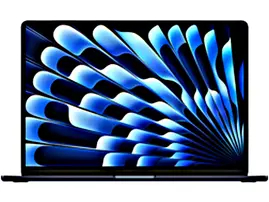
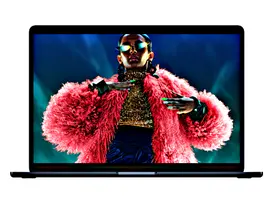
add 10 pics to latops section and customize latops cards also design 4 cards of smart watchse section

diff --git a/index.html b/index.html
@@ -290,32 +290,12 @@
     <!--!-------laptops ----------->
     <div class="laptops" id="laptops">
 
-        <h2>Laptop</h2>
+        <span>LAPTOPS</span>
 
         <div class="row2">
 
             <div class="card1 cardl">
-                <img src="./images/OIP (1).jpeg" alt="">
-                <h3>Infinix INBook Y1 Plus</h3>
-                
-            </div>
-            <div class="card2 cardl">
-                <img src="./images/OIP (2).jpeg" alt="">
-                <h3>HP 15-FD0021NX</h3>
-                
-            </div>
-            <div class="card3 cardl">
-                <img src="./images/download (2).jpeg" alt="">
-                <h3>Dell Vostro 3520</h3>
-                
-            </div>
-            <div class="card4 cardl">
-                <img src="./images/download (1).jpeg" alt="">
-                <h3>Dell latitude 2340</h3>
-            </div>
-
-            <div class="card6 cardl">
-                <img src="./images/realme 12.webp" alt="">
+                <img src="./images/laptop 1.webp" alt="">
                 <h2> Iphone XS Max 512GB</h2>
 
                 <details>
@@ -331,6 +311,166 @@
 
                 <h3>Rs. 157,999</h3>
             </div>
+
+            <div class="card2 cardl">
+                <img src="./images/laptop 22.webp" alt="">
+                <h2> Iphone XS Max 512GB</h2>
+
+                <details>
+                    <br>
+                    * RAM: 1 <br>
+                    * RAM: 4GB <br>
+                    * Storage: 256GB <br>
+                    * Camera: 12MP + 12MP <br>
+                    * Battery: Li-Ion 3174 mAh <br>
+                    * Screen: 6.5 inches <br>
+                    <br>
+                </details>
+
+                <h3>Rs. 157,999</h3>
+            </div>
+            <div class="card3 cardl">
+                <img src="./images/laptop 3.webp" alt="">
+                <h2> Iphone XS Max 512GB</h2>
+
+                <details>
+                    <br>
+                    * RAM: 1 <br>
+                    * RAM: 4GB <br>
+                    * Storage: 256GB <br>
+                    * Camera: 12MP + 12MP <br>
+                    * Battery: Li-Ion 3174 mAh <br>
+                    * Screen: 6.5 inches <br>
+                    <br>
+                </details>
+
+                <h3>Rs. 157,999</h3>
+            </div>
+            <div class="card4 cardl">
+                <img src="./images/laptop 4.webp" alt="">
+                <h2> Iphone XS Max 512GB</h2>
+
+                <details>
+                    <br>
+                    * RAM: 1 <br>
+                    * RAM: 4GB <br>
+                    * Storage: 256GB <br>
+                    * Camera: 12MP + 12MP <br>
+                    * Battery: Li-Ion 3174 mAh <br>
+                    * Screen: 6.5 inches <br>
+                    <br>
+                </details>
+
+                <h3>Rs. 157,999</h3>
+            </div>
+            <div class="card5 cardl">
+                <img src="./images/laptop 5.webp" alt="">
+                <h2> Iphone XS Max 512GB</h2>
+
+                <details>
+                    <br>
+                    * RAM: 1 <br>
+                    * RAM: 4GB <br>
+                    * Storage: 256GB <br>
+                    * Camera: 12MP + 12MP <br>
+                    * Battery: Li-Ion 3174 mAh <br>
+                    * Screen: 6.5 inches <br>
+                    <br>
+                </details>
+
+                <h3>Rs. 157,999</h3>
+            </div>
+            <div class="card6 cardl">
+                <img src="./images/laptop 6.webp" alt="">
+                <h2> Iphone XS Max 512GB</h2>
+
+                <details>
+                    <br>
+                    * RAM: 1 <br>
+                    * RAM: 4GB <br>
+                    * Storage: 256GB <br>
+                    * Camera: 12MP + 12MP <br>
+                    * Battery: Li-Ion 3174 mAh <br>
+                    * Screen: 6.5 inches <br>
+                    <br>
+                </details>
+
+                <h3>Rs. 157,999</h3>
+            </div>
+            <div class="card7 cardl">
+                <img src="./images/laptop 7.webp" alt="">
+                <h2> Iphone XS Max 512GB</h2>
+
+                <details>
+                    <br>
+                    * RAM: 1 <br>
+                    * RAM: 4GB <br>
+                    * Storage: 256GB <br>
+                    * Camera: 12MP + 12MP <br>
+                    * Battery: Li-Ion 3174 mAh <br>
+                    * Screen: 6.5 inches <br>
+                    <br>
+                </details>
+
+                <h3>Rs. 157,999</h3>
+            </div>
+            <div class="card8 cardl">
+                <img src="./images/laptop 8.webp" alt="">
+                <h2> Iphone XS Max 512GB</h2>
+
+                <details>
+                    <br>
+                    * RAM: 1 <br>
+                    * RAM: 4GB <br>
+                    * Storage: 256GB <br>
+                    * Camera: 12MP + 12MP <br>
+                    * Battery: Li-Ion 3174 mAh <br>
+                    * Screen: 6.5 inches <br>
+                    <br>
+                </details>
+
+                <h3>Rs. 157,999</h3>
+            </div>
+            <div class="card9 cardl">
+                <img src="./images/laptop 9.webp" alt="">
+                <h2> Iphone XS Max 512GB</h2>
+
+                <details>
+                    <br>
+                    * RAM: 1 <br>
+                    * RAM: 4GB <br>
+                    * Storage: 256GB <br>
+                    * Camera: 12MP + 12MP <br>
+                    * Battery: Li-Ion 3174 mAh <br>
+                    * Screen: 6.5 inches <br>
+                    <br>
+                </details>
+
+                <h3>Rs. 157,999</h3>
+            </div>
+            <div class="card10 cardl">
+                <img src="./images/laptop 10.webp" alt="">
+                <h2> Iphone XS Max 512GB</h2>
+
+                <details>
+                    <br>
+                    * RAM: 1 <br>
+                    * RAM: 4GB <br>
+                    * Storage: 256GB <br>
+                    * Camera: 12MP + 12MP <br>
+                    * Battery: Li-Ion 3174 mAh <br>
+                    * Screen: 6.5 inches <br>
+                    <br>
+                </details>
+
+                <h3>Rs. 157,999</h3>
+            </div>
+            
+           
+
+           
+            
+           
            
         </div>
     </div>
@@ -338,7 +478,7 @@
     <!--!-------smart watches ----------->
     <div class="smart-watches" id="smart-watches">
 
-        <h2>Smart watches</h2>
+        <span>SMART WATCHES</span>
 
         <div class="row3">
 
@@ -379,7 +519,7 @@
             
         </div>
         <div class="copyright">
-            <p>© 2024 digital world. All rights reserved.</p>
+            <p>© 2024 royal tech. All rights reserved.</p>
         </div>
         
     </footer>

diff --git a/style.css b/style.css
@@ -30,6 +30,7 @@ body{
     flex-direction: row;
     justify-content: space-around;
     align-items: center;
+    border: 2px solid #090979;
     /* flex-wrap: wrap; */
 }
 .logo img{
@@ -78,6 +79,7 @@ body{
     color: white;
     font-size: 30px;
 }
+
 /* *------ HOME CONTENT  ------------ */
 .home-content{
     width: 100%;
@@ -221,6 +223,11 @@ body{
     border:  3px outset #090979;
     box-shadow: 8px 8px 10px 4px  gray;
     outline: 5px solid white;
+
+transition: transform .3s;
+}
+.smart-phones .row1 .card:hover{
+    transform: scale(1.1);
 }
 .smart-phones .card img{
     width: 100%;
@@ -237,22 +244,26 @@ body{
     font-family: Arial, Helvetica, sans-serif;
 }
 
-
 /* *------ LAPTOPS ------------ */
 .laptops{
     width: 100%;
     padding-top: 50px;
     padding-bottom: 50px;
-    /* height: 430px; */
-    background: #f2b5e4; 
+    /* height: 900px; */
+    /* background: #9bf0cc; */
     display: flex;
     flex-direction: column;
     justify-content: space-evenly;
 }
-.laptops h2{
+.laptops span{
     text-align: center;
-}
+    padding-bottom: 40px;
+    font-family: 'font 1';
+    font-size: 40px;
+    color: #090979;
+    text-decoration: underline;
 
+}
 .laptops .row2{
     display: flex;
     flex-direction: row;
@@ -261,21 +272,40 @@ body{
     /* height: 100vh; */
     justify-content: space-evenly;
 }
-
 .laptops .row2 .cardl{
-    width: 300px;
-    height: 270px;
+    width: 260px;
+    height: 46%;
     background: #fff;
     display: flex;
     justify-content: center;
     align-items: center;
     flex-direction: column;
+    margin-bottom: 20px;
+    padding: 15px;
+    line-height: 30px;
+    border-radius: 10px;
+    border:  3px outset #090979;
+    box-shadow: 8px 8px 10px 4px  gray;
+    outline: 5px solid white;
+
+transition: transform .3s;
+}
+.laptops .row2 .cardl:hover{
+    transform: scale(1.1);
 }
 .laptops .cardl img{
-    width: 200px;
+    width: 100%;
 }
-.cardl h3{
-    text-align: center;
+.laptops .cardl h2{
+    /* font-size:  40px; */
+    color: #090979;
+}
+.laptops .cardl h3{
+    background: #090979;
+    color: #fff;
+    padding: 7px;
+    border-radius: 30px;
+    font-family: Arial, Helvetica, sans-serif;
 }
 
 /* *------SMART WATCHES ------------ */
@@ -290,10 +320,14 @@ body{
     justify-content: space-evenly;
     /* overflow: visible; */
 }
-.smart-watches h2{
+.smart-watches span{
     text-align: center;
+    padding-bottom: 40px;
+    font-family: 'font 1';
+    font-size: 40px;
+    color: #090979;
+    text-decoration: underline;
 }
-
 .smart-watches .row3{
     display: flex;
     flex-direction: row;
@@ -311,14 +345,25 @@ body{
     justify-content: center;
     align-items: center;
     flex-direction: row;
-    margin-bottom: 10px;
+    margin-bottom: 30px;
+    border-radius: 10px;
+    border:  3px outset #090979;
+    box-shadow: 8px 8px 10px 4px  gray;
+    outline: 5px solid white;
+    transition: transform .2s;
+}
+.smart-watches .row3 .cardw:hover{
+    transform: scale(1.1);
 }
 .smart-watches .cardw img{
     width: 200px;
 }
 .cardw h1{
-    /* text-align: center; */
     padding-left: 30px;
+    color: #090979;
+    font-family: 'font 2';
+    font-size: 40px;
+    font-weight: 200;
 
 }
 footer{
@@ -337,3 +382,26 @@ footer{
     width: 50px;
     /* box-shadow: 1px 1px 6px 8px white; */
 }
+
+
+
+/* Extra small devices (phones, 600px and down) */
+@media only screen and (max-width: 600px) {
+
+}
+
+/* Small devices (portrait tablets and large phones, 600px and up) */
+@media only screen and (min-width: 600px) {
+
+}
+
+/* Medium devices (landscape tablets, 768px and up) */
+@media only screen and (min-width: 768px) {
+    
+}
+
+/* Large devices (laptops/desktops, 992px and up) */
+@media only screen and (min-width: 992px) {...}
+
+/* Extra large devices (large laptops and desktops, 1200px and up) */
+@media only screen and (min-width: 1200px) {...}
